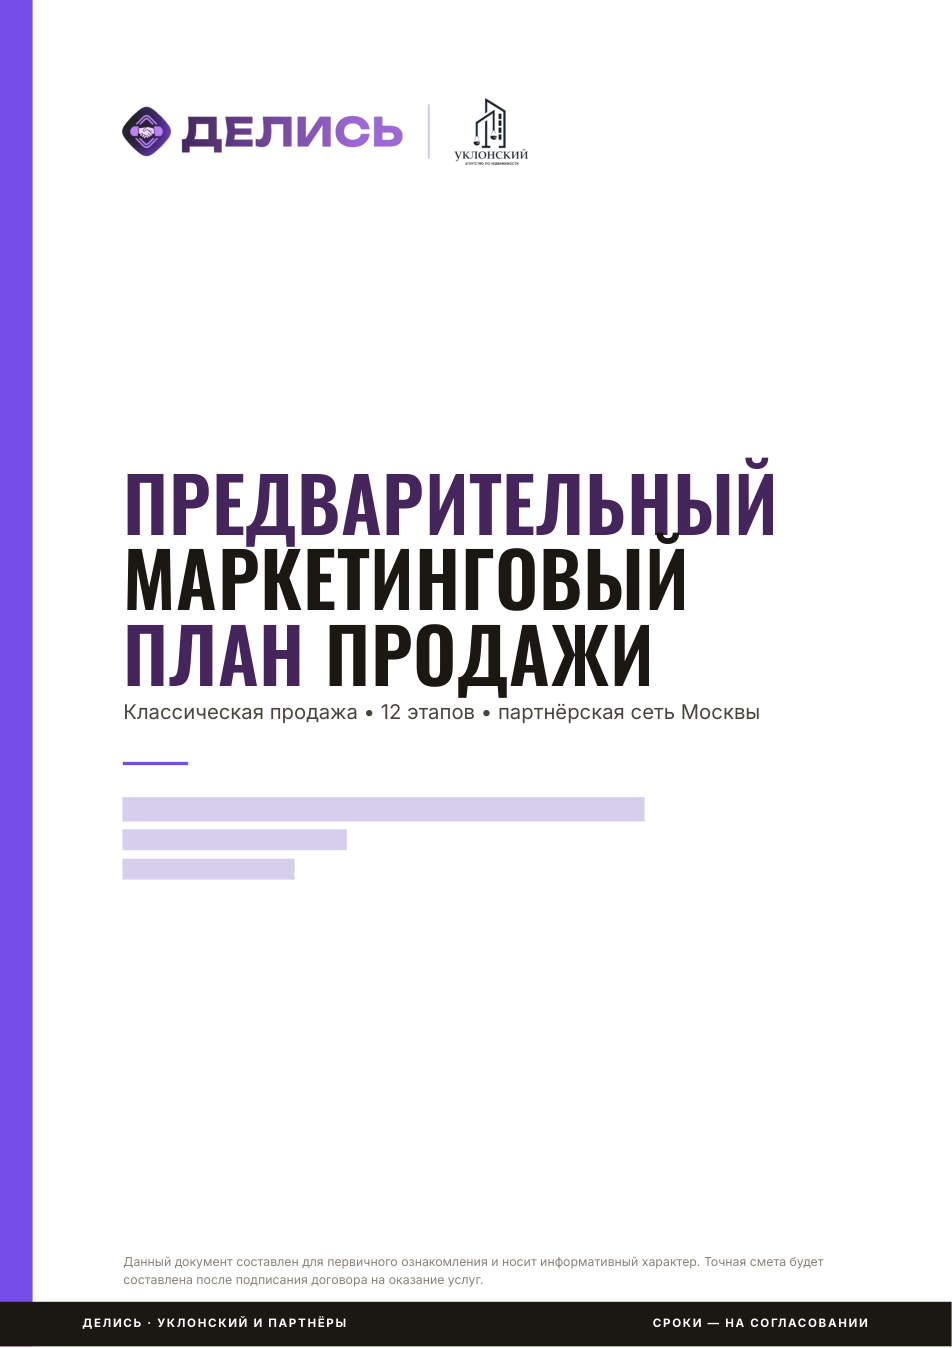
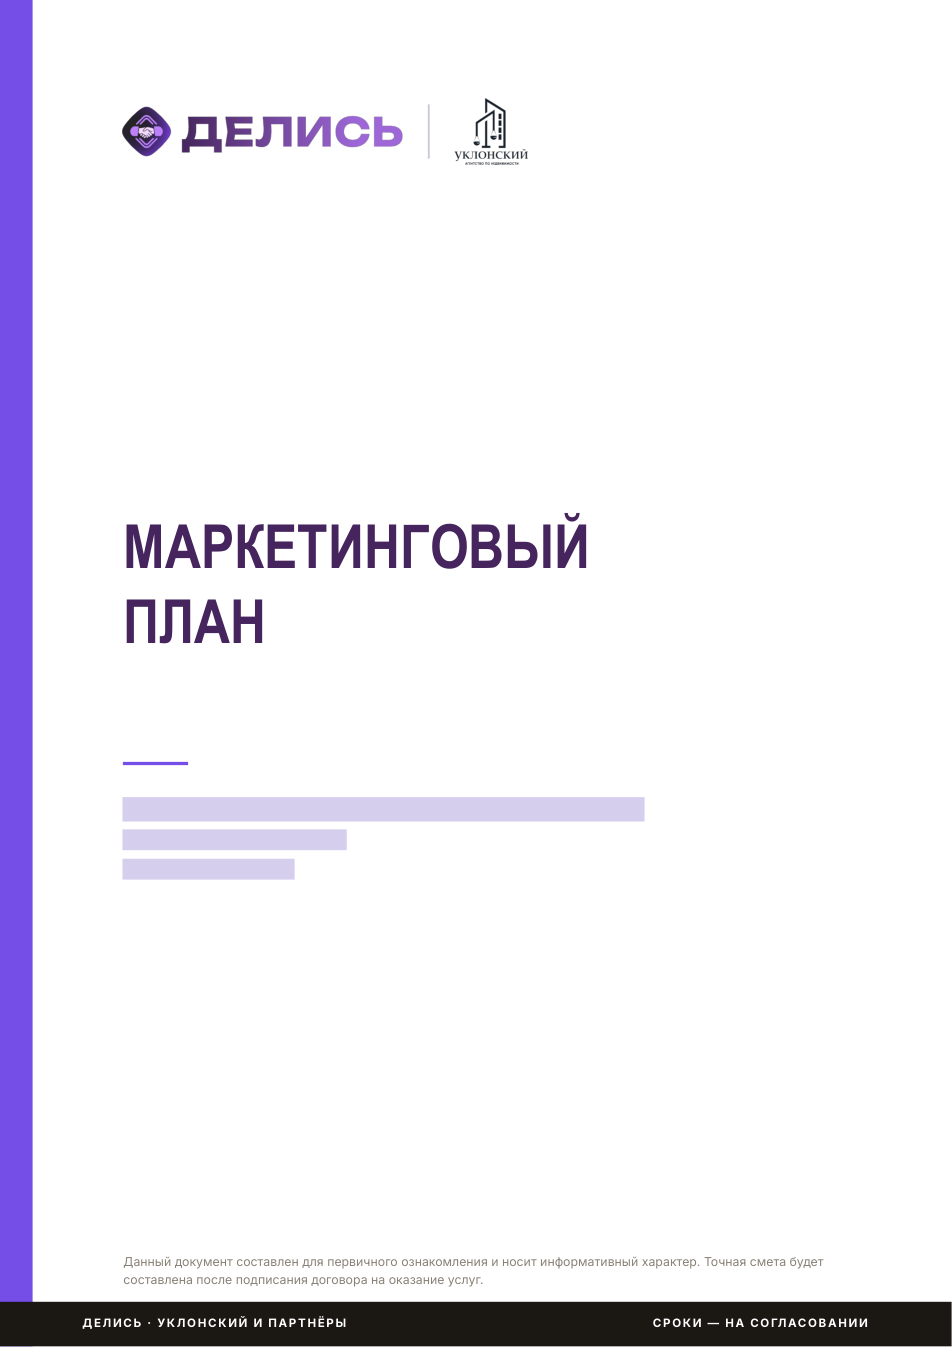
Restore desktop hero copy and refine commission and plan previews

Changed region(s): [[0.1218, 0.3427, 0.8225, 0.5297]]

diff --git a/index.html b/index.html
@@ -14,7 +14,7 @@
 <link href="https://fonts.googleapis.com/css2?family=Inter:wght@400;500;600;700&family=Unbounded:wght@500;600;700&display=swap" rel="stylesheet">
 <link rel="stylesheet" href="css/tokens.css?v=20261003mobile4">
 <link rel="stylesheet" href="css/base.css?v=20261003mobile4">
-<link rel="stylesheet" href="css/main.css?v=20261003commission1">
+<link rel="stylesheet" href="css/main.css?v=20261003commission2">
 <script src="https://api-maps.yandex.ru/2.1/?lang=ru_RU" type="text/javascript"></script>
 </head>
 <body>
@@ -60,9 +60,9 @@
         <img src="images/hero-bg.svg" alt="" class="hero__offer-bg">
         <div class="hero__offer-content">
           <h1 class="hero__title">
-            <span class="hero__desktop-title">Площадка <br>партнёрских продаж</span><span class="hero__mobile-title">Площадка <br>партнёрских продаж</span>
+            <span class="hero__desktop-title">Главный инструмент <br>партнёрских продаж</span><span class="hero__mobile-title">Площадка <br>партнёрских продаж</span>
           </h1>
-          <p class="hero__text hero__desktop-text">Сотни агентов будут предлагать вашу недвижимость своим покупателям на условиях встречной комиссии.</p>
+          <p class="hero__text hero__desktop-text">Делись — информационная площадка для профессионалов рынка недвижимости. Ваш объект будут предлагать сотни агентов, замотивированные получить встречную комиссию за приведённого покупателя.</p>
           <p class="hero__mobile-text">Сотни агентов будут предлагать вашу недвижимость своим покупателям на условиях встречной комиссии.</p>
           <ul class="hero__pins">
             <li class="hero__pin">Обучение и развитие</li>
@@ -627,6 +627,6 @@ document.addEventListener('keydown', (e) => {
 <script src="data/videos.js?v=20261003mobile4"></script>
 <script src="data/objects.js?v=20261003mobile4"></script>
 <script src="js/favorites.js?v=20261003mobile4"></script>
-<script src="js/main.js?v=20261003commission1"></script>
+<script src="js/main.js?v=20261003commission2"></script>
 </body>
 </html>

diff --git a/js/main.js b/js/main.js
@@ -8,7 +8,7 @@ const Commission = {
   },
   render(value) {
     if (this.authenticated()) return String(value || '—');
-    return `<button type="button" class="commission-lock" data-commission-lock aria-label="Встречная комиссия доступна после регистрации"><span class="commission-lock__blur" aria-hidden="true">••• ••• ₽</span><svg width="16" height="18" viewBox="0 0 20 22" fill="none" aria-hidden="true"><rect x="3" y="9" width="14" height="11" rx="3" stroke="currentColor" stroke-width="1.7"/><path d="M6 9V6a4 4 0 0 1 8 0v3" stroke="currentColor" stroke-width="1.7"/><circle cx="10" cy="14" r="1.5" fill="currentColor"/></svg></button>`;
+    return `<button type="button" class="commission-lock" data-commission-lock aria-label="Встречная комиссия доступна после регистрации"><svg class="commission-lock__money" width="20" height="16" viewBox="0 0 24 20" fill="none" aria-hidden="true"><rect x="1.5" y="3.5" width="21" height="13" rx="2.5" stroke="currentColor" stroke-width="1.6"/><circle cx="12" cy="10" r="3" stroke="currentColor" stroke-width="1.6"/><path d="M5 7h1m12 6h1" stroke="currentColor" stroke-width="1.6" stroke-linecap="round"/></svg><span class="commission-lock__blur" aria-hidden="true">••• ••• ₽</span><svg width="16" height="18" viewBox="0 0 20 22" fill="none" aria-hidden="true"><rect x="3" y="9" width="14" height="11" rx="3" stroke="currentColor" stroke-width="1.7"/><path d="M6 9V6a4 4 0 0 1 8 0v3" stroke="currentColor" stroke-width="1.7"/><circle cx="10" cy="14" r="1.5" fill="currentColor"/></svg></button>`;
   },
   open() {
     let dialog = document.getElementById('commission-dialog');

diff --git a/pages/object-unreg.html b/pages/object-unreg.html
@@ -13,7 +13,7 @@
 <link href="https://fonts.googleapis.com/css2?family=Inter:wght@400;500;600;700&family=Manrope:wght@400;500;600;700;800&family=Unbounded:wght@500;600;700&display=swap" rel="stylesheet">
 <link rel="stylesheet" href="../css/tokens.css?v=20261003d">
 <link rel="stylesheet" href="../css/base.css?v=20261003d">
-<link rel="stylesheet" href="../css/main.css?v=20261003commission1">
+<link rel="stylesheet" href="../css/main.css?v=20261003commission2">
 <link rel="stylesheet" href="../css/object.css?v=20261003d">
 <script src="https://api-maps.yandex.ru/2.1/?lang=ru_RU" type="text/javascript"></script>
 </head>
@@ -273,9 +273,9 @@
 </footer>
 
 <script src="../js/favorites.js?v=20261003d"></script>
-<script src="../js/main.js?v=20261003commission1"></script>
+<script src="../js/main.js?v=20261003commission2"></script>
 <script src="../data/objects.js?v=20261003d"></script>
-<script src="../js/object.js?v=20261003commission1"></script>
+<script src="../js/object.js?v=20261003commission2"></script>
 <script>
 // Заблокированные элементы (кнопки и скрытая комиссия) → ведут на регистрацию
 document.addEventListener('click', (e) => {

diff --git a/pages/object-unreg/index.html b/pages/object-unreg/index.html
@@ -14,7 +14,7 @@
 <link href="https://fonts.googleapis.com/css2?family=Inter:wght@400;500;600;700&family=Manrope:wght@400;500;600;700;800&family=Unbounded:wght@500;600;700&display=swap" rel="stylesheet">
 <link rel="stylesheet" href="../css/tokens.css?v=20261003d">
 <link rel="stylesheet" href="../css/base.css?v=20261003d">
-<link rel="stylesheet" href="../css/main.css?v=20261003commission1">
+<link rel="stylesheet" href="../css/main.css?v=20261003commission2">
 <link rel="stylesheet" href="../css/object.css?v=20261003d">
 <script src="https://api-maps.yandex.ru/2.1/?lang=ru_RU" type="text/javascript"></script>
 </head>
@@ -274,9 +274,9 @@
 </footer>
 
 <script src="../js/favorites.js?v=20261003d"></script>
-<script src="../js/main.js?v=20261003commission1"></script>
+<script src="../js/main.js?v=20261003commission2"></script>
 <script src="../data/objects.js?v=20261003d"></script>
-<script src="../js/object.js?v=20261003commission1"></script>
+<script src="../js/object.js?v=20261003commission2"></script>
 <script>
 // Заблокированные элементы (кнопки и скрытая комиссия) → ведут на регистрацию
 document.addEventListener('click', (e) => {

diff --git a/pages/object.html b/pages/object.html
@@ -13,7 +13,7 @@
 <link href="https://fonts.googleapis.com/css2?family=Inter:wght@400;500;600;700&family=Manrope:wght@400;500;600;700;800&family=Unbounded:wght@500;600;700&display=swap" rel="stylesheet">
 <link rel="stylesheet" href="../css/tokens.css?v=20261003d">
 <link rel="stylesheet" href="../css/base.css?v=20261003d">
-<link rel="stylesheet" href="../css/main.css?v=20261003commission1">
+<link rel="stylesheet" href="../css/main.css?v=20261003commission2">
 <link rel="stylesheet" href="../css/object.css?v=20261003d">
 <link rel="stylesheet" href="../css/chat.css?v=20261003d">
 <script src="https://api-maps.yandex.ru/2.1/?lang=ru_RU" type="text/javascript"></script>
@@ -397,9 +397,9 @@
 </div>
 
 <script src="../js/favorites.js?v=20261003d"></script>
-<script src="../js/main.js?v=20261003commission1"></script>
+<script src="../js/main.js?v=20261003commission2"></script>
 <script src="../data/objects.js?v=20261003d"></script>
-<script src="../js/object.js?v=20261003commission1"></script>
+<script src="../js/object.js?v=20261003commission2"></script>
 <script>
 (function() {
   const main = document.getElementById('obj-gallery-main');

diff --git a/pages/object/index.html b/pages/object/index.html
@@ -14,7 +14,7 @@
 <link href="https://fonts.googleapis.com/css2?family=Inter:wght@400;500;600;700&family=Manrope:wght@400;500;600;700;800&family=Unbounded:wght@500;600;700&display=swap" rel="stylesheet">
 <link rel="stylesheet" href="../css/tokens.css?v=20261003d">
 <link rel="stylesheet" href="../css/base.css?v=20261003d">
-<link rel="stylesheet" href="../css/main.css?v=20261003commission1">
+<link rel="stylesheet" href="../css/main.css?v=20261003commission2">
 <link rel="stylesheet" href="../css/object.css?v=20261003d">
 <link rel="stylesheet" href="../css/chat.css?v=20261003d">
 <script src="https://api-maps.yandex.ru/2.1/?lang=ru_RU" type="text/javascript"></script>
@@ -398,9 +398,9 @@
 </div>
 
 <script src="../js/favorites.js?v=20261003d"></script>
-<script src="../js/main.js?v=20261003commission1"></script>
+<script src="../js/main.js?v=20261003commission2"></script>
 <script src="../data/objects.js?v=20261003d"></script>
-<script src="../js/object.js?v=20261003commission1"></script>
+<script src="../js/object.js?v=20261003commission2"></script>
 <script>
 (function() {
   const main = document.getElementById('obj-gallery-main');

diff --git a/catalog.html b/catalog.html
@@ -13,7 +13,7 @@
 <link href="https://fonts.googleapis.com/css2?family=Inter:wght@400;500;600;700&family=Unbounded:wght@500;600;700&display=swap" rel="stylesheet">
 <link rel="stylesheet" href="css/tokens.css?v=20261003d">
 <link rel="stylesheet" href="css/base.css?v=20261003d">
-<link rel="stylesheet" href="css/main.css?v=20261003commission1">
+<link rel="stylesheet" href="css/main.css?v=20261003commission2">
 <script src="https://api-maps.yandex.ru/2.1/?lang=ru_RU" type="text/javascript"></script>
 </head>
 <body class="page-catalog">
@@ -298,6 +298,6 @@ document.addEventListener('keydown', (e) => { if (e.key === 'Escape') closeFilte
 </script>
 <script src="data/objects.js?v=20261003d"></script>
 <script src="js/favorites.js?v=20261003d"></script>
-<script src="js/main.js?v=20261003commission1"></script>
+<script src="js/main.js?v=20261003commission2"></script>
 </body>
 </html>

diff --git a/catalog/index.html b/catalog/index.html
@@ -14,7 +14,7 @@
 <link href="https://fonts.googleapis.com/css2?family=Inter:wght@400;500;600;700&family=Unbounded:wght@500;600;700&display=swap" rel="stylesheet">
 <link rel="stylesheet" href="css/tokens.css?v=20261003d">
 <link rel="stylesheet" href="css/base.css?v=20261003d">
-<link rel="stylesheet" href="css/main.css?v=20261003commission1">
+<link rel="stylesheet" href="css/main.css?v=20261003commission2">
 <script src="https://api-maps.yandex.ru/2.1/?lang=ru_RU" type="text/javascript"></script>
 </head>
 <body class="page-catalog">
@@ -299,6 +299,6 @@ document.addEventListener('keydown', (e) => { if (e.key === 'Escape') closeFilte
 </script>
 <script src="data/objects.js?v=20261003d"></script>
 <script src="js/favorites.js?v=20261003d"></script>
-<script src="js/main.js?v=20261003commission1"></script>
+<script src="js/main.js?v=20261003commission2"></script>
 </body>
 </html>

diff --git a/css/main.css b/css/main.css
@@ -4039,3 +4039,14 @@ body[data-mp="4"] .mp-v4, body[data-mp="5"] .mp-v5 { display: grid; }
  .commission-dialog { padding: 40px 22px 22px; }
  .commission-dialog h2 { font-size: 22px; }
 }
+
+/* The cover sits above the budget sheets; charts peek out on the left. */
+.mp-real-page--cover { z-index: 3; transform: translateY(26px); }
+.mp-real-page--team { z-index: 1; transform: translate(-110px, 5px) rotate(-10deg); }
+.mp-real-page--budget { z-index: 2; transform: translate(90px, 5px) rotate(9deg); }
+@media (max-width: 700px) {
+ .mp-real-page--cover { transform: translate(12px, 26px); }
+ .mp-real-page--team { transform: translate(-58px, 5px) rotate(-10deg); }
+ .mp-real-page--budget { transform: translate(54px, 5px) rotate(9deg); }
+ .commission-lock { gap: 6px; padding-inline: 8px; }
+}

diff --git a/pages/fix-request.html b/pages/fix-request.html
@@ -12,7 +12,7 @@
 <link href="https://fonts.googleapis.com/css2?family=Inter:wght@400;500;600;700&family=Unbounded:wght@500;600;700&display=swap" rel="stylesheet">
 <link rel="stylesheet" href="../css/tokens.css?v=20261003d">
 <link rel="stylesheet" href="../css/base.css?v=20261003d">
-<link rel="stylesheet" href="../css/main.css?v=20261003commission1">
+<link rel="stylesheet" href="../css/main.css?v=20261003commission2">
 </head>
 <body>
 <header class="header">
@@ -147,7 +147,7 @@
 
 <div class="snackbar" id="snackbar"></div>
 
-<script src="../js/main.js?v=20261003commission1"></script>
+<script src="../js/main.js?v=20261003commission2"></script>
 <script>
 (function(){
   // Агент = текущий пользователь

diff --git a/pages/fix-request/index.html b/pages/fix-request/index.html
@@ -13,7 +13,7 @@
 <link href="https://fonts.googleapis.com/css2?family=Inter:wght@400;500;600;700&family=Unbounded:wght@500;600;700&display=swap" rel="stylesheet">
 <link rel="stylesheet" href="../css/tokens.css?v=20261003d">
 <link rel="stylesheet" href="../css/base.css?v=20261003d">
-<link rel="stylesheet" href="../css/main.css?v=20261003commission1">
+<link rel="stylesheet" href="../css/main.css?v=20261003commission2">
 </head>
 <body>
 <header class="header">
@@ -148,7 +148,7 @@
 
 <div class="snackbar" id="snackbar"></div>
 
-<script src="../js/main.js?v=20261003commission1"></script>
+<script src="../js/main.js?v=20261003commission2"></script>
 <script>
 (function(){
   // Агент = текущий пользователь

diff --git a/agents.html b/agents.html
@@ -13,7 +13,7 @@
 <link href="https://fonts.googleapis.com/css2?family=Inter:wght@400;500;600;700&family=Unbounded:wght@500;600;700&display=swap" rel="stylesheet">
 <link rel="stylesheet" href="css/tokens.css?v=20261003f">
 <link rel="stylesheet" href="css/base.css?v=20261003f">
-<link rel="stylesheet" href="css/main.css?v=20261003commission1">
+<link rel="stylesheet" href="css/main.css?v=20261003commission2">
 <link rel="stylesheet" href="css/agents.css?v=20261003f">
 </head>
 <body>
@@ -117,6 +117,6 @@
   </div>
 </footer>
 
-<script src="js/main.js?v=20261003commission1"></script>
+<script src="js/main.js?v=20261003commission2"></script>
 </body>
 </html>
